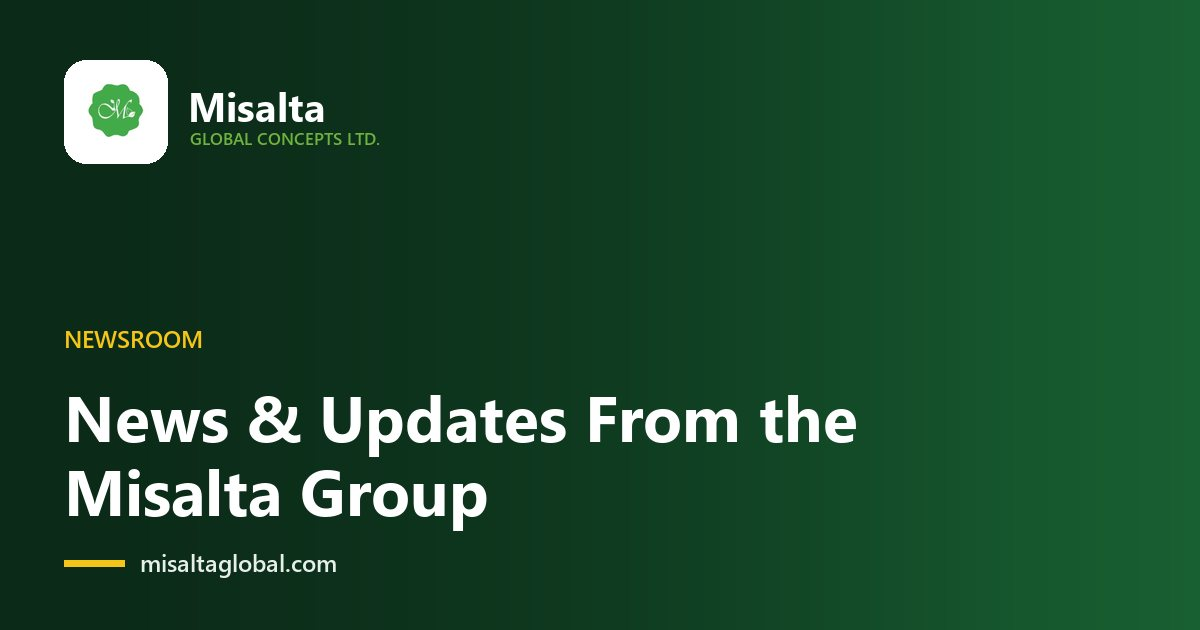
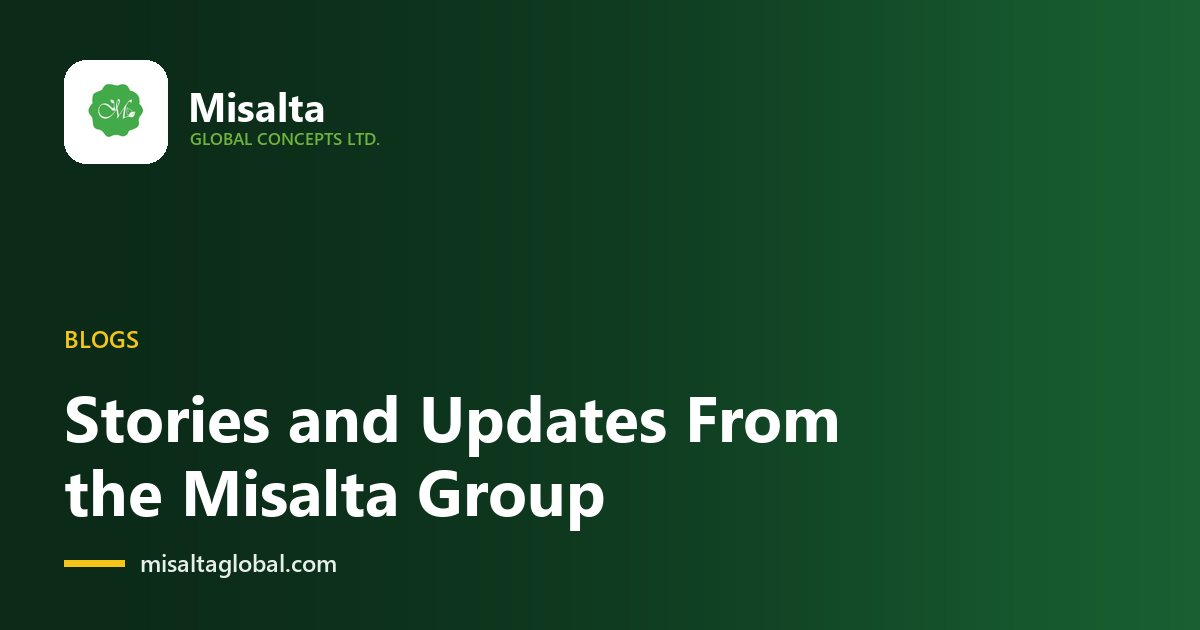
Rename the News & Updates page to Blogs
Tab and share titles, breadcrumb (Home / Blogs), All Blog Posts section,
story labels, homepage section heading and share image. Script version v64.

Changed region(s): [[0.0308, 0.6032, 0.7092, 0.8444], [0.0617, 0.5127, 0.185, 0.573]]

diff --git a/news.html b/news.html
@@ -3,9 +3,9 @@
 <head>
 <meta charset="UTF-8">
 <meta name="viewport" content="width=device-width,initial-scale=1">
-<title>News &amp; Updates | Misalta Global Concepts Ltd.</title>
+<title>Blogs | Misalta Global Concepts Ltd.</title>
 <meta name="description" content="News and updates from Misalta Global Concepts Ltd.: meetings, milestones and new developments across the group, told in full — and refreshed as new stories land.">
-<meta property="og:site_name" content="Misalta Global Concepts Ltd."><meta property="og:title" content="News &amp; Updates | Misalta Global Concepts Ltd."><meta property="og:description" content="News and updates from Misalta Global Concepts Ltd.: meetings, milestones and new developments across the group."><meta property="og:type" content="website"><link rel="canonical" href="https://misaltaglobal.com/news"><meta property="og:url" content="https://misaltaglobal.com/news"><meta property="og:image" content="https://misaltaglobal.com/images/og/news.jpg"><meta property="og:image:width" content="1200"><meta property="og:image:height" content="630"><meta property="og:image:alt" content="News &amp; Updates | Misalta Global Concepts Ltd."><meta name="twitter:image" content="https://misaltaglobal.com/images/og/news.jpg"><meta name="twitter:card" content="summary_large_image"><meta name="theme-color" content="#0b2a18"><link rel="icon" href="favicon.ico" sizes="any"><link rel="icon" type="image/png" sizes="32x32" href="images/icons/favicon-32.png"><link rel="apple-touch-icon" href="images/icons/apple-touch-icon.png"><link rel="manifest" href="site.webmanifest">
+<meta property="og:site_name" content="Misalta Global Concepts Ltd."><meta property="og:title" content="Blogs | Misalta Global Concepts Ltd."><meta property="og:description" content="News and updates from Misalta Global Concepts Ltd.: meetings, milestones and new developments across the group."><meta property="og:type" content="website"><link rel="canonical" href="https://misaltaglobal.com/news"><meta property="og:url" content="https://misaltaglobal.com/news"><meta property="og:image" content="https://misaltaglobal.com/images/og/news.jpg"><meta property="og:image:width" content="1200"><meta property="og:image:height" content="630"><meta property="og:image:alt" content="Blogs | Misalta Global Concepts Ltd."><meta name="twitter:image" content="https://misaltaglobal.com/images/og/news.jpg"><meta name="twitter:card" content="summary_large_image"><meta name="theme-color" content="#0b2a18"><link rel="icon" href="favicon.ico" sizes="any"><link rel="icon" type="image/png" sizes="32x32" href="images/icons/favicon-32.png"><link rel="apple-touch-icon" href="images/icons/apple-touch-icon.png"><link rel="manifest" href="site.webmanifest">
 <link rel="preload" href="fonts/inter-latin.woff2" as="font" type="font/woff2" crossorigin data-perf>
 <link rel="preload" href="fonts/public-sans-latin.woff2" as="font" type="font/woff2" crossorigin data-perf>
 <link rel="stylesheet" href="styles.css?v=47">
@@ -14,14 +14,14 @@
 <!-- One news page for all stories. script.js renders the selected story
      (location.hash) into the hero + article, then lists the rest below. -->
 <section class="phero news-hero torn-b"><div class="container">
-  <div class="crumbs" role="navigation" aria-label="Breadcrumb"><a href="index.html">Home</a><i>/</i><a href="about.html">Company</a><i>/</i><span>News</span></div>
+  <div class="crumbs" role="navigation" aria-label="Breadcrumb"><a href="index.html">Home</a><i>/</i><span>Blogs</span></div>
   <div id="n-hero-in"></div>
 </div></section>
 
 <section id="n-art"><div class="container" id="n-art-in"></div></section>
 
 <section class="mist"><div class="container">
-  <div class="sec-head reveal"><span class="eyebrow">More from the newsroom</span><h2 class="title">All News &amp; Updates</h2><p class="lead">Newest first. More loads as you scroll.</p></div>
+  <div class="sec-head reveal"><span class="eyebrow">More from our blog</span><h2 class="title">All Blog Posts</h2><p class="lead">Newest first. More loads as you scroll.</p></div>
   <div class="grid g3" id="n-grid"></div>
   <div id="n-sentinel" style="height:2px"></div>
   <p class="center" id="n-end" style="margin:36px auto 0;display:none">You're all caught up. More updates are on the way.</p>
@@ -32,6 +32,6 @@
   <div class="acts"><a class="btn btn-gold" href="contact.html#message">Contact the media team</a><a class="btn btn-ghost" href="about.html">About Misalta</a></div>
 </div></div></section>
 
-<script src="script.js?v=63"></script>
+<script src="script.js?v=64"></script>
 </body>
 </html>

diff --git a/script.js b/script.js
@@ -720,7 +720,7 @@ if (nHero && nArt && nGrid) {
   function routeNews() {
     const slug = decodeURIComponent((location.hash || "").replace(/^#/, "").trim());
     const n = NEWS.find(x => x.slug === slug) || NEWS[0];
-    nHero.innerHTML = `<span class="eyebrow" style="color:var(--leaf)">${n.tag} · ${n.date} · News &amp; updates</span><h1 style="max-width:860px;margin:10px auto 0">${n.title}</h1>${n.cover ? `<img class="news-cover" src="${n.cover}" alt="${n.title}" data-fallback="remove">${n.coverCap ? `<div class="cover-cap">${n.coverCap}</div>` : ""}` : ""}`;
+    nHero.innerHTML = `<span class="eyebrow" style="color:var(--leaf)">${n.tag} · ${n.date} · Blogs</span><h1 style="max-width:860px;margin:10px auto 0">${n.title}</h1>${n.cover ? `<img class="news-cover" src="${n.cover}" alt="${n.title}" data-fallback="remove">${n.coverCap ? `<div class="cover-cap">${n.coverCap}</div>` : ""}` : ""}`;
     nArt.innerHTML = `<p class="news-lede">${n.lede}</p>` + n.body.map(it => it[0] === "p" ? `<p>${it[1]}</p>` : fig(it[1], it[2], n.title)).join("");
     buildGrid(n.slug);
     window.scrollTo({ top: 0, behavior: "auto" });

diff --git a/index.html b/index.html
@@ -127,7 +127,7 @@
 
 <!-- News (shown only once there are 3+ stories; see script.js) -->
 <section id="news-band" class="mist"><div class="container">
-  <div class="sec-head reveal" style="margin-bottom:30px"><span class="eyebrow">Newsroom</span><h2 class="title">News &amp; Updates</h2><p class="lead">What the group is doing, as it happens.</p></div>
+  <div class="sec-head reveal" style="margin-bottom:30px"><span class="eyebrow">Blogs</span><h2 class="title">From Our Blog</h2><p class="lead">What the group is doing, as it happens.</p></div>
   <div id="news-tick" class="tick"></div>
   <div class="center" style="margin-top:26px"><a class="btn btn-green" href="news.html">All news &amp; updates</a></div>
 </div></section>
@@ -139,6 +139,6 @@
 </div></div></section>
 
 
-<script src="script.js?v=63"></script>
+<script src="script.js?v=64"></script>
 </body>
 </html>

diff --git a/credits.html b/credits.html
@@ -39,6 +39,6 @@
   <div class="sec-head reveal"><span class="eyebrow">Logos</span><h2 class="title">Regulator, Client and Certification Logos</h2><p class="lead">The logos of NNPC Limited, NCDC, CAC, NRS, PenCom, NSITF, ITF, BPP, NCDMB, NHIA, SCUML, SMEDAN, NEPC, AfCFTA, NDPC, NCAA, the Chartered Institute of Administration, the Nigerian Institute of Management and the Corporate Finance Institute belong to those organisations. They are taken from each organisation's official website and shown only to identify who we are registered with, certified by or have worked for. They do not imply endorsement.</p></div>
 </div></section>
 
-<script src="script.js?v=63"></script>
+<script src="script.js?v=64"></script>
 </body>
 </html>

diff --git a/trade-x/what_to_expect.html b/trade-x/what_to_expect.html
@@ -93,6 +93,6 @@
   <div class="acts"><a class="btn btn-gold" href="trade-x.html#early-access">Join early access</a><a class="btn btn-ghost" href="contact.html?for=trade-x#get-started">Request a demo</a></div>
 </div></div></section>
 
-<script src="script.js?v=63"></script>
+<script src="script.js?v=64"></script>
 </body>
 </html>

diff --git a/trust.html b/trust.html
@@ -53,6 +53,6 @@
   <div class="acts"><a class="btn btn-gold" href="#" data-open="invest">Request the pack</a><a class="btn btn-ghost" data-mail="invest" href="contact.html">Email the team</a></div>
 </div></div></section>
 
-<script src="script.js?v=63"></script>
+<script src="script.js?v=64"></script>
 </body>
 </html>

diff --git a/businesses.html b/businesses.html
@@ -56,6 +56,6 @@
   <div class="acts"><a class="btn btn-gold" href="consulting.html">Explore Misalta Consulting</a><a class="btn btn-ghost" href="investment.html">Invest &amp; Partner</a></div>
 </div></div></section>
 
-<script src="script.js?v=63"></script>
+<script src="script.js?v=64"></script>
 </body>
 </html>

diff --git a/investment.html b/investment.html
@@ -103,6 +103,6 @@
   <div class="acts"><a class="btn btn-gold" href="#" data-open="invest">Make an investment enquiry</a><a class="btn btn-ghost" href="contact.html">Contact us</a></div>
 </div></div></section>
 
-<script src="script.js?v=63"></script>
+<script src="script.js?v=64"></script>
 </body>
 </html>

diff --git a/about.html b/about.html
@@ -118,6 +118,6 @@
   <div class="acts"><a class="btn btn-gold" href="contact.html">Contact Us</a><a class="btn btn-ghost" href="investment.html">Invest &amp; Partner</a></div>
 </div></div></section>
 
-<script src="script.js?v=63"></script>
+<script src="script.js?v=64"></script>
 </body>
 </html>

diff --git a/faq.html b/faq.html
@@ -39,6 +39,6 @@
     <div class="faq-acts"><a class="btn btn-gold" href="#" data-assistant>Ask Misalta AI</a><a class="btn btn-dark" href="contact.html">Contact us</a></div></div>
 </div></section>
 
-<script src="script.js?v=63"></script>
+<script src="script.js?v=64"></script>
 </body>
 </html>

diff --git a/agro-hubs.html b/agro-hubs.html
@@ -107,6 +107,6 @@
     </form>
 </div></section>
 
-<script src="script.js?v=63"></script>
+<script src="script.js?v=64"></script>
 </body>
 </html>

diff --git a/agro-processing.html b/agro-processing.html
@@ -108,6 +108,6 @@
     </form>
 </div></section>
 
-<script src="script.js?v=63"></script>
+<script src="script.js?v=64"></script>
 </body>
 </html>
